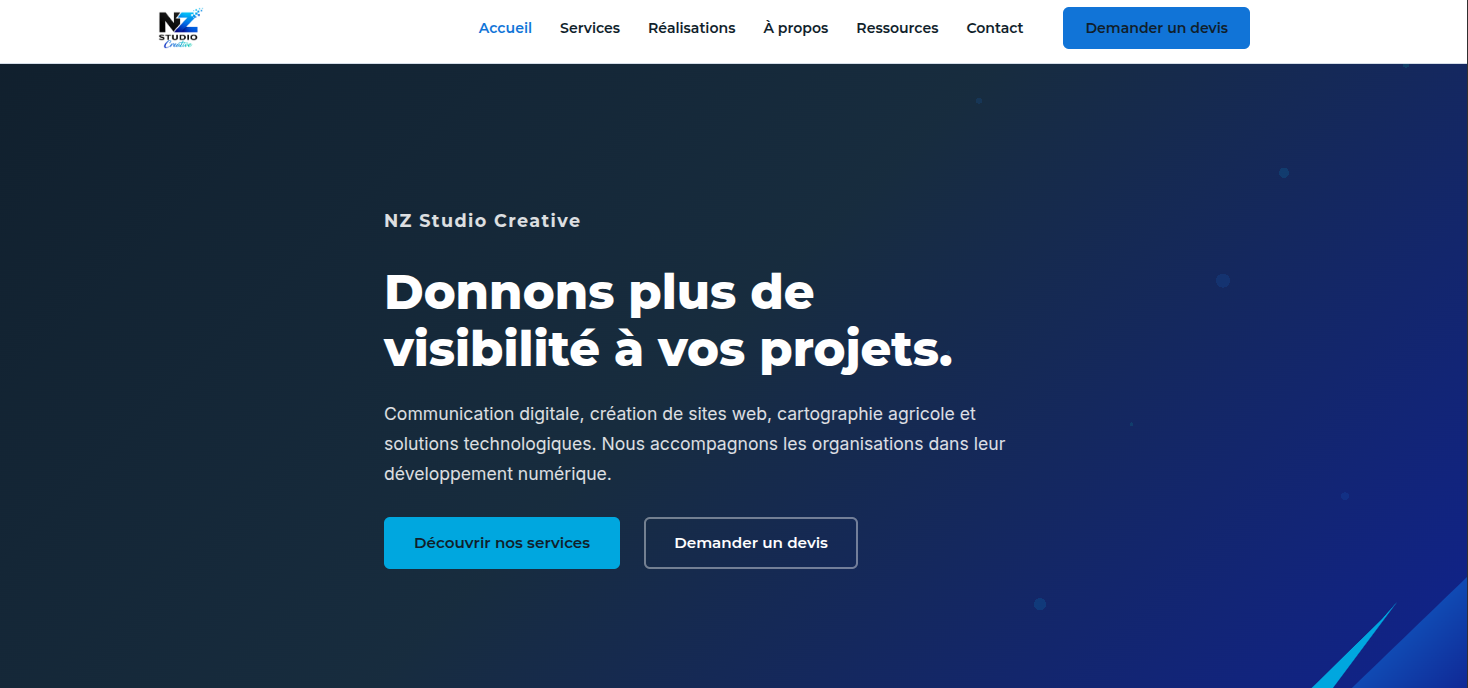
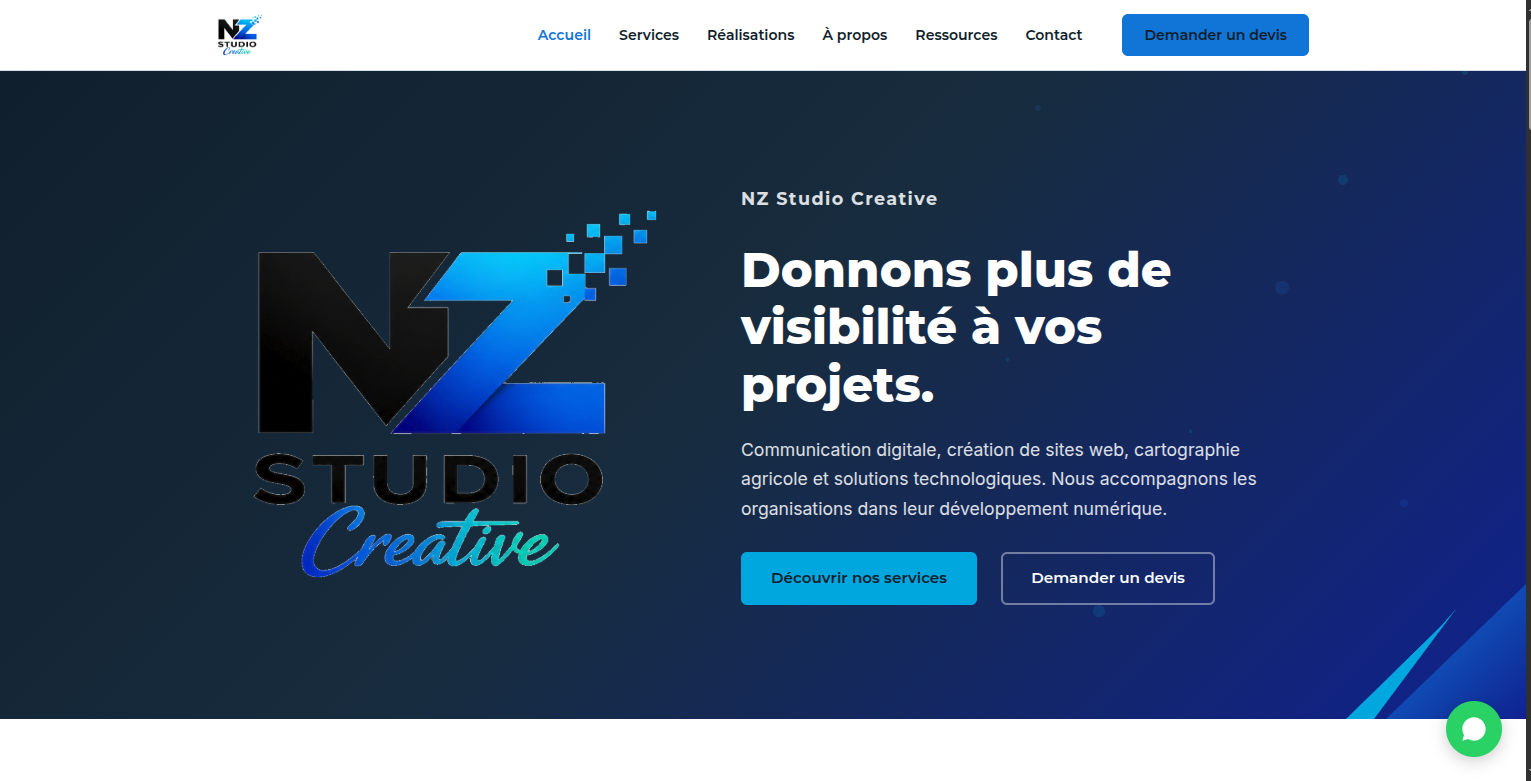
feat:Implementation du systeme d'envoie d'email

diff --git a/index.html b/index.html
@@ -32,7 +32,16 @@
 <section class="hero">
   <div class="hero__bg"></div>
   <div class="hero__pixels"></div>
-  <div class="container">
+  <div class="container hero__inner">
+
+    <!-- logo -->
+     
+    <div class="hero__logo fad-up">
+      <img src="img/logo-transparent.png" alt="NZ Studio Creative">
+    </div>
+
+    <!-- text et boutons du hero section -->
+     
     <div class="hero__content">
       <p class="section-label fad-up">NZ Studio Creative</p>
       <h1 class="fad-up">Donnons plus de visibilité à vos projets.</h1>
@@ -42,6 +51,7 @@
         <a href="./pages/devis.html" class="btn btn--outline fad-up" style="border-color:rgba(255,255,255,.4);color:#fff">Demander un devis</a>
       </div>
     </div>
+  
   </div>
   <svg class="hero__corner" viewBox="0 0 180 135" preserveAspectRatio="none"><defs><linearGradient id="hg" x1="0" y1="0" x2="1" y2="1"><stop offset="0" stop-color="#0875D8"/><stop offset="1" stop-color="#071C91"/></linearGradient></defs><polygon points="180,0 180,135 40,135" fill="url(#hg)"/><polygon points="95,42 110,25 28,135 0,135" fill="#00A8E0"/></svg>
 </section>
@@ -164,12 +174,13 @@
         <p style="color:rgba(255,255,255,.8);margin-bottom:20px">Décrivez votre besoin en quelques lignes. Nous vous répondons sous 24 heures avec une proposition adaptée, sans engagement.</p>
         <p style="color:rgba(255,255,255,.6);font-size:.9rem">Vous préférez en parler directement ?<br><a href="https://wa.me/237694633010" target="_blank" style="color:var(--cyan);font-weight:600">Échangeons sur WhatsApp</a></p>
       </div>
-      <form class="form reveal" action="#" method="POST">
+      <form class="form reveal" data-subject="Nouvelle demande de devis (accueil) — NZ STUDIO CREATIVE">
         <div class="form__row">
           <div class="form__group"><label for="nom">Nom et prénom</label><input type="text" id="nom" name="nom" placeholder="Votre nom" required></div>
           <div class="form__group"><label for="tel">Téléphone</label><input type="tel" id="tel" name="tel" placeholder="+237 ..." required></div>
         </div>
         <div class="form__group"><label for="org">Coopérative / organisation</label><input type="text" id="org" name="org" placeholder="Nom de votre organisation"></div>
+        <div class="form__group"><label for="email">E-mail</label><input type="email" id="email" name="email" placeholder="vous@exemple.com"></div>
         <div class="form__group"><label for="service">Service souhaité</label>
           <select id="service" name="service" required>
             <option value="">Choisir un service</option>
@@ -196,8 +207,8 @@
         <p>Agence de solutions digitales et technologiques. Nous accompagnons les organisations dans leur transformation numérique et leur visibilité.</p>
         <div class="footer__social">
           <a href="https://www.facebook.com/profile.php?id=61596868254224" aria-label="Facebook"><svg viewBox="0 0 24 24"><path d="M18 2h-3a5 5 0 00-5 5v3H7v4h3v8h4v-8h3l1-4h-4V7a1 1 0 011-1h3z"/></svg></a>
-          <a href="#" aria-label="LinkedIn"><svg viewBox="0 0 24 24"><path d="M16 8a6 6 0 016 6v7h-4v-7a2 2 0 00-4 0v7h-4v-7a6 6 0 016-6zM2 9h4v12H2zM4 2a2 2 0 110 4 2 2 0 010-4z"/></svg></a>
-          <a href="#" aria-label="Instagram"><svg viewBox="0 0 24 24"><rect x="2" y="2" width="20" height="20" rx="5"/><circle cx="12" cy="12" r="4.5"/><circle cx="17.5" cy="6.5" r="1.5"/></svg></a>
+          <a href="https://www.linkedin.com/company/nzstudiocreative/" aria-label="LinkedIn"><svg viewBox="0 0 24 24"><path d="M16 8a6 6 0 016 6v7h-4v-7a2 2 0 00-4 0v7h-4v-7a6 6 0 016-6zM2 9h4v12H2zM4 2a2 2 0 110 4 2 2 0 010-4z"/></svg></a>
+          <a href="https://www.instagram.com/nzstudio237/" aria-label="Instagram"><svg viewBox="0 0 24 24"><rect x="2" y="2" width="20" height="20" rx="5"/><circle cx="12" cy="12" r="4.5"/><circle cx="17.5" cy="6.5" r="1.5"/></svg></a>
         </div>
       </div>
       <div class="footer__col">
@@ -213,7 +224,7 @@
       </div>
       <div class="footer__col">
         <h4>Contact</h4>
-        <p>Téléphone : +237 672 20 38 14<br>WhatsApp :  +237 672 20 38 14 <br>Yaoundé, Cameroun</p>
+        <p>Téléphone : +237 672 20 38 14<br>WhatsApp : <a href="https://wa.me/237672203814"> +237 672 20 38 14 </a> <br>Yaoundé, Cameroun</p>
         <p style="margin-top:12px"><a href="./pages/devis.html" class="btn btn--cyan btn--small">Demander un devis</a></p>
       </div>
     </div>
@@ -259,5 +270,6 @@
   document.querySelectorAll(" .fad-right").forEach((el)=>observer.observe(el));
 </script>
 
+<script src="./emailService/form.js"></script>
 </body>
 </html>

diff --git a/pages/devis.html b/pages/devis.html
@@ -39,8 +39,7 @@
 <section class="section">
   <div class="container">
     <div class="grid-2" style="align-items:start">
-      <form class="form reveal" action="#" method="POST" style="max-width:100%">
-        <div class="form__row">
+      <form class="form reveal" id="devis-form" data-subject="Nouvelle demande de devis — NZ STUDIO CREATIVE" style="max-width:100%">        <div class="form__row">
           <div class="form__group"><label for="d-nom">Nom et prénom *</label><input type="text" id="d-nom" name="nom" required></div>
           <div class="form__group"><label for="d-tel">Téléphone *</label><input type="tel" id="d-tel" name="tel" placeholder="+237 ..." required></div>
         </div>
@@ -65,8 +64,8 @@
         <h3>Vous préférez en parler directement ?</h3>
         <p style="color:var(--gray);margin-top:8px">Appelez-nous ou écrivez-nous sur WhatsApp. Chaque accompagnement commence par un échange.</p>
         <div style="margin-top:20px">
-          <a href="https://wa.me/237694633010" target="_blank" class="btn btn--cyan" style="width:100%;margin-bottom:12px">Échanger sur WhatsApp</a>
-          <a href="tel:+237694633010" class="btn btn--outline" style="width:100%">Appeler le +237 694 633 010</a>
+          <a href="https://wa.me/237672203814" target="_blank" class="btn btn--cyan" style="width:100%;margin-bottom:12px">Échanger sur WhatsApp</a>
+          <a href="tel:+237672203814" class="btn btn--outline" style="width:100%">Appeler le +237 672 20 38 14</a>
         </div>
         <div style="margin-top:28px;padding-top:20px;border-top:1px solid var(--line) reveal">
           <h3>Ce que nous proposons</h3>
@@ -91,8 +90,8 @@
         <p>Agence de solutions digitales et technologiques. Nous accompagnons les organisations dans leur transformation numérique et leur visibilité.</p>
         <div class="footer__social">
           <a href="https://www.facebook.com/profile.php?id=61596868254224" aria-label="Facebook"><svg viewBox="0 0 24 24"><path d="M18 2h-3a5 5 0 00-5 5v3H7v4h3v8h4v-8h3l1-4h-4V7a1 1 0 011-1h3z"/></svg></a>
-          <a href="#" aria-label="LinkedIn"><svg viewBox="0 0 24 24"><path d="M16 8a6 6 0 016 6v7h-4v-7a2 2 0 00-4 0v7h-4v-7a6 6 0 016-6zM2 9h4v12H2zM4 2a2 2 0 110 4 2 2 0 010-4z"/></svg></a>
-          <a href="#" aria-label="Instagram"><svg viewBox="0 0 24 24"><rect x="2" y="2" width="20" height="20" rx="5"/><circle cx="12" cy="12" r="4.5"/><circle cx="17.5" cy="6.5" r="1.5"/></svg></a>
+          <a href="https://www.linkedin.com/company/nzstudiocreative/" aria-label="LinkedIn"><svg viewBox="0 0 24 24"><path d="M16 8a6 6 0 016 6v7h-4v-7a2 2 0 00-4 0v7h-4v-7a6 6 0 016-6zM2 9h4v12H2zM4 2a2 2 0 110 4 2 2 0 010-4z"/></svg></a>
+          <a href="https://www.instagram.com/nzstudio237/" aria-label="Instagram"><svg viewBox="0 0 24 24"><rect x="2" y="2" width="20" height="20" rx="5"/><circle cx="12" cy="12" r="4.5"/><circle cx="17.5" cy="6.5" r="1.5"/></svg></a>
         </div>
       </div>
       <div class="footer__col reveal">
@@ -109,7 +108,7 @@
       <div class="footer__col reveal">
         <h4>Contact</h4>
         <p>Téléphone :+237 672 20 38 14<br>WhatsApp : +237 672 20 38 14<br>Yaoundé, Cameroun</p>
-        <p style="margin-top:12px"><a href="devis.html" class="btn btn--cyan btn--small">Demander un devis</a></p>
+        <p style="margin-top:12px"><a href="tel:+237672203814" class="btn btn--cyan btn--small">Demander un devis</a></p>
       </div>
     </div>
     <div class="footer__bottom">
@@ -152,7 +151,8 @@
   document.querySelectorAll(".reveal").forEach((el)=> observer.observe(el));
   document.querySelectorAll(" .fad-left").forEach((el)=>observer.observe(el));
   document.querySelectorAll(" .fad-right").forEach((el)=>observer.observe(el));
-</script>
 
+</script>
+<script src="../emailService/form.js"></script>
 </body>
 </html>

diff --git a/emailService/form.js b/emailService/form.js
@@ -1,0 +1,75 @@
+// envoie de formulaire par email via web3form
+
+const WEB3FORMS_ACCESS_KEY="022090b5-dca8-4e35-8c38-785252636d08"
+const WEB3FORMS_URL='https://api.web3forms.com/submit'
+
+document.querySelectorAll('form[data-subject]').forEach((form)=>{
+    const btn=form.querySelector('button[type="submit"]');
+    const btnLabel=btn.textContent;
+
+    // message de statut sous le bouton
+
+    const status=document.createElement('p');
+    status.className='form__status';
+    status.setAttribute('role','status');
+    btn.insertAdjacentElement('afterend',status);
+
+    // piege Anti-spam
+
+    const trap=document.createElement('input');
+    trap.type='checkbox';
+    trap.name='botcheck';
+    trap.tabIndex=-1;
+    trap.setAttribute('aria-hidden','true');
+    trap.style.display='none';
+    form.appendChild(trap)
+
+    form.addEventListener('submit',async (e)=>{
+        e.preventDefault();
+        status.className='form__status';
+        status.textContent='';
+
+        const data=new FormData(form);
+        data.append('access_key',WEB3FORMS_ACCESS_KEY);
+        data.append('subject',form.dataset.subject);
+        data.append('from_name','site NZ STUDIO CREATIVE');
+
+        // remplace le name de la balise selcte par sa valeur meme (carto par  cartographie et tecabilite)
+
+        const select=form.querySelector('select[name="service"]');
+         if(select && select.value){
+            data.set('service',select.options[select.selectedIndex].text);
+         }
+
+         btn.disabled=true;
+         btn.textContent='Envoie en cours...';
+
+         try {
+            const res= await fetch(WEB3FORMS_URL,{
+                method:'POST',
+                headers: {Accept:'application/json'},
+                body:data,
+            });
+
+            const json = await res.json();
+            if(res.ok && json.success) {
+                form.reset();
+                status.classList.add('form__status--ok');
+                status.textContent = 'Merci ! Votre message a bien été envoyé'
+            }else{
+                throw new Error(json.message || 'Erreur');
+
+            }
+            
+         } catch (err) {
+            
+            status.classList.add('form__status--err');
+            status.textContent="L'envoi a échoué. Réessayez ou écrivez-nous sur WhatsApp."
+         }finally{
+            btn.disabled=false;
+            btn.textContent='btnLabel';
+         }
+
+    })
+
+})

diff --git a/pages/contact.html b/pages/contact.html
@@ -63,8 +63,7 @@
 
       <div>
         <h2>Envoyez-nous un message</h2>
-        <form class="form" action="#" method="POST" style="max-width:100%">
-          <div class="form__row">
+         <form class="form" data-subject="Nouveau message (page contact) — NZ STUDIO CREATIVE" style="max-width:100%">          <div class="form__row">
             <div class="form__group"><label for="c-nom">Nom et prénom</label><input type="text" id="c-nom" name="nom" required></div>
             <div class="form__group"><label for="c-tel">Téléphone</label><input type="tel" id="c-tel" name="tel"></div>
           </div>
@@ -86,8 +85,8 @@
         <p>Agence de solutions digitales et technologiques. Nous accompagnons les organisations dans leur transformation numérique et leur visibilité.</p>
         <div class="footer__social">
           <a href="https://www.facebook.com/profile.php?id=61596868254224" aria-label="Facebook"><svg viewBox="0 0 24 24"><path d="M18 2h-3a5 5 0 00-5 5v3H7v4h3v8h4v-8h3l1-4h-4V7a1 1 0 011-1h3z"/></svg></a>
-          <a href="#" aria-label="LinkedIn"><svg viewBox="0 0 24 24"><path d="M16 8a6 6 0 016 6v7h-4v-7a2 2 0 00-4 0v7h-4v-7a6 6 0 016-6zM2 9h4v12H2zM4 2a2 2 0 110 4 2 2 0 010-4z"/></svg></a>
-          <a href="#" aria-label="Instagram"><svg viewBox="0 0 24 24"><rect x="2" y="2" width="20" height="20" rx="5"/><circle cx="12" cy="12" r="4.5"/><circle cx="17.5" cy="6.5" r="1.5"/></svg></a>
+          <a href="https://www.linkedin.com/company/nzstudiocreative/" aria-label="LinkedIn"><svg viewBox="0 0 24 24"><path d="M16 8a6 6 0 016 6v7h-4v-7a2 2 0 00-4 0v7h-4v-7a6 6 0 016-6zM2 9h4v12H2zM4 2a2 2 0 110 4 2 2 0 010-4z"/></svg></a>
+          <a href="https://www.instagram.com/nzstudio237/" aria-label="Instagram"><svg viewBox="0 0 24 24"><rect x="2" y="2" width="20" height="20" rx="5"/><circle cx="12" cy="12" r="4.5"/><circle cx="17.5" cy="6.5" r="1.5"/></svg></a>
         </div>
       </div>
       <div class="footer__col reveal">
@@ -149,6 +148,6 @@
   document.querySelectorAll(" .fad-right").forEach((el)=>observer.observe(el));
   });
 </script>
-
+<script src="../emailService/form.js"></script>
 </body>
 </html>

diff --git a/pages/components.html b/pages/components.html
@@ -25,9 +25,9 @@
         <img src="img/logo.png" alt="NZ Studio Creative" style="height:44px;margin-bottom:16px;filter:brightness(0) invert(1)">
         <p>Agence de solutions digitales et technologiques. Nous accompagnons les organisations dans leur transformation numérique et leur visibilité.</p>
         <div class="footer__social">
-          <a href="#" aria-label="Facebook"><svg viewBox="0 0 24 24"><path d="M18 2h-3a5 5 0 00-5 5v3H7v4h3v8h4v-8h3l1-4h-4V7a1 1 0 011-1h3z"/></svg></a>
-          <a href="#" aria-label="LinkedIn"><svg viewBox="0 0 24 24"><path d="M16 8a6 6 0 016 6v7h-4v-7a2 2 0 00-4 0v7h-4v-7a6 6 0 016-6zM2 9h4v12H2zM4 2a2 2 0 110 4 2 2 0 010-4z"/></svg></a>
-          <a href="#" aria-label="Instagram"><svg viewBox="0 0 24 24"><rect x="2" y="2" width="20" height="20" rx="5"/><circle cx="12" cy="12" r="4.5"/><circle cx="17.5" cy="6.5" r="1.5"/></svg></a>
+          <a href="https://www.facebook.com/profile.php?id=61596868254224" aria-label="Facebook"><svg viewBox="0 0 24 24"><path d="M18 2h-3a5 5 0 00-5 5v3H7v4h3v8h4v-8h3l1-4h-4V7a1 1 0 011-1h3z"/></svg></a>
+          <a href="https://www.linkedin.com/company/nzstudiocreative/" aria-label="LinkedIn"><svg viewBox="0 0 24 24"><path d="M16 8a6 6 0 016 6v7h-4v-7a2 2 0 00-4 0v7h-4v-7a6 6 0 016-6zM2 9h4v12H2zM4 2a2 2 0 110 4 2 2 0 010-4z"/></svg></a>
+          <a href="https://www.instagram.com/nzstudio237/" aria-label="Instagram"><svg viewBox="0 0 24 24"><rect x="2" y="2" width="20" height="20" rx="5"/><circle cx="12" cy="12" r="4.5"/><circle cx="17.5" cy="6.5" r="1.5"/></svg></a>
         </div>
       </div>
       <div class="footer__col">

diff --git a/style.css b/style.css
@@ -175,6 +175,11 @@ p + p, p + ul, ul + p { margin-top: 12px; }
 .hero__buttons { display: flex; flex-wrap: wrap; gap: 12px; }
 .hero__corner { position: absolute; right: 0; bottom: 0; width: 180px; height: 135px; }
 
+/* logo sur la hero section */
+.hero__inner { display: flex; align-items: center; justify-content: space-between; gap: 48px; width: 100%; }
+.hero__logo { position: relative; z-index: 1; flex: 0 0 auto; padding: 28px; }
+.hero__logo img { display: block; width: clamp(260px, 32vw, 420px); height: auto; }
+
 /* --- Grid cards --- */
 .grid-2 { display: grid; grid-template-columns: repeat(2, 1fr); gap: var(--gap); }
 .grid-3 { display: grid; grid-template-columns: repeat(3, 1fr); gap: var(--gap); }
@@ -295,6 +300,7 @@ p + p, p + ul, ul + p { margin-top: 12px; }
   .navbar__toggle { display: block; }
   .navbar__cta { display: none; }
   .hero__content h1 { font-size: 1.8rem; }
+  .hero__logo { display: none; }
   .grid-2, .grid-3, .grid-4 { grid-template-columns: 1fr; }
   .footer__grid { grid-template-columns: 1fr; }
   .form__row { grid-template-columns: 1fr; }
@@ -302,3 +308,10 @@ p + p, p + ul, ul + p { margin-top: 12px; }
   .hero__buttons { flex-direction: column; }
   .section { padding: 48px 0; }
 }
+
+/* Statut d'envoi des formulaires */
+.form__status { margin-top: 12px; font-size: .9rem; font-weight: 600; text-align: center; }
+.form__status:empty { display: none; }
+.form__status--ok { color: var(--turq); }
+.form__status--err { color: #D64545; }
+.form button[disabled] { opacity: .7; cursor: not-allowed; }

diff --git a/pages/a-propos.html b/pages/a-propos.html
@@ -69,8 +69,8 @@
         <p>Agence de solutions digitales et technologiques. Nous accompagnons les organisations dans leur transformation numérique et leur visibilité.</p>
         <div class="footer__social">
           <a href="https://www.facebook.com/profile.php?id=61596868254224" aria-label="Facebook"><svg viewBox="0 0 24 24"><path d="M18 2h-3a5 5 0 00-5 5v3H7v4h3v8h4v-8h3l1-4h-4V7a1 1 0 011-1h3z"/></svg></a>
-          <a href="#" aria-label="LinkedIn"><svg viewBox="0 0 24 24"><path d="M16 8a6 6 0 016 6v7h-4v-7a2 2 0 00-4 0v7h-4v-7a6 6 0 016-6zM2 9h4v12H2zM4 2a2 2 0 110 4 2 2 0 010-4z"/></svg></a>
-          <a href="#" aria-label="Instagram"><svg viewBox="0 0 24 24"><rect x="2" y="2" width="20" height="20" rx="5"/><circle cx="12" cy="12" r="4.5"/><circle cx="17.5" cy="6.5" r="1.5"/></svg></a>
+          <a href="https://www.linkedin.com/company/nzstudiocreative/" aria-label="LinkedIn"><svg viewBox="0 0 24 24"><path d="M16 8a6 6 0 016 6v7h-4v-7a2 2 0 00-4 0v7h-4v-7a6 6 0 016-6zM2 9h4v12H2zM4 2a2 2 0 110 4 2 2 0 010-4z"/></svg></a>
+          <a href="https://www.instagram.com/nzstudio237/" aria-label="Instagram"><svg viewBox="0 0 24 24"><rect x="2" y="2" width="20" height="20" rx="5"/><circle cx="12" cy="12" r="4.5"/><circle cx="17.5" cy="6.5" r="1.5"/></svg></a>
         </div>
       </div>
       <div class="footer__col reveal">

diff --git a/pages/realisations.html b/pages/realisations.html
@@ -77,8 +77,8 @@
         <p>Agence de solutions digitales et technologiques. Nous accompagnons les organisations dans leur transformation numérique et leur visibilité.</p>
         <div class="footer__social">
           <a href="https://www.facebook.com/profile.php?id=61596868254224" aria-label="Facebook"><svg viewBox="0 0 24 24"><path d="M18 2h-3a5 5 0 00-5 5v3H7v4h3v8h4v-8h3l1-4h-4V7a1 1 0 011-1h3z"/></svg></a>
-          <a href="#" aria-label="LinkedIn"><svg viewBox="0 0 24 24"><path d="M16 8a6 6 0 016 6v7h-4v-7a2 2 0 00-4 0v7h-4v-7a6 6 0 016-6zM2 9h4v12H2zM4 2a2 2 0 110 4 2 2 0 010-4z"/></svg></a>
-          <a href="#" aria-label="Instagram"><svg viewBox="0 0 24 24"><rect x="2" y="2" width="20" height="20" rx="5"/><circle cx="12" cy="12" r="4.5"/><circle cx="17.5" cy="6.5" r="1.5"/></svg></a>
+          <a href="https://www.linkedin.com/company/nzstudiocreative/" aria-label="LinkedIn"><svg viewBox="0 0 24 24"><path d="M16 8a6 6 0 016 6v7h-4v-7a2 2 0 00-4 0v7h-4v-7a6 6 0 016-6zM2 9h4v12H2zM4 2a2 2 0 110 4 2 2 0 010-4z"/></svg></a>
+          <a href="https://www.instagram.com/nzstudio237/" aria-label="Instagram"><svg viewBox="0 0 24 24"><rect x="2" y="2" width="20" height="20" rx="5"/><circle cx="12" cy="12" r="4.5"/><circle cx="17.5" cy="6.5" r="1.5"/></svg></a>
         </div>
       </div>
       <div class="footer__col reveal">

diff --git a/pages/ressources.html b/pages/ressources.html
@@ -77,8 +77,8 @@
         <p>Agence de solutions digitales et technologiques. Nous accompagnons les organisations dans leur transformation numérique et leur visibilité.</p>
         <div class="footer__social">
           <a href="https://www.facebook.com/profile.php?id=61596868254224" aria-label="Facebook"><svg viewBox="0 0 24 24"><path d="M18 2h-3a5 5 0 00-5 5v3H7v4h3v8h4v-8h3l1-4h-4V7a1 1 0 011-1h3z"/></svg></a>
-          <a href="#" aria-label="LinkedIn"><svg viewBox="0 0 24 24"><path d="M16 8a6 6 0 016 6v7h-4v-7a2 2 0 00-4 0v7h-4v-7a6 6 0 016-6zM2 9h4v12H2zM4 2a2 2 0 110 4 2 2 0 010-4z"/></svg></a>
-          <a href="#" aria-label="Instagram"><svg viewBox="0 0 24 24"><rect x="2" y="2" width="20" height="20" rx="5"/><circle cx="12" cy="12" r="4.5"/><circle cx="17.5" cy="6.5" r="1.5"/></svg></a>
+          <a href="https://www.linkedin.com/company/nzstudiocreative/" aria-label="LinkedIn"><svg viewBox="0 0 24 24"><path d="M16 8a6 6 0 016 6v7h-4v-7a2 2 0 00-4 0v7h-4v-7a6 6 0 016-6zM2 9h4v12H2zM4 2a2 2 0 110 4 2 2 0 010-4z"/></svg></a>
+          <a href="https://www.instagram.com/nzstudio237/" aria-label="Instagram"><svg viewBox="0 0 24 24"><rect x="2" y="2" width="20" height="20" rx="5"/><circle cx="12" cy="12" r="4.5"/><circle cx="17.5" cy="6.5" r="1.5"/></svg></a>
         </div>
       </div>
       <div class="footer__col reveal">

diff --git a/pages/services.html b/pages/services.html
@@ -143,11 +143,11 @@
             <a href="https://www.facebook.com/profile.php?id=61596868254224" class="reveal" aria-label="Facebook" class="reveal"><svg viewBox="0 0 24 24">
                 <path d="M18 2h-3a5 5 0 00-5 5v3H7v4h3v8h4v-8h3l1-4h-4V7a1 1 0 011-1h3z" />
               </svg></a>
-            <a href="#" class="reveal" aria-label="LinkedIn" class="reveal"><svg viewBox="0 0 24 24">
+            <a href="https://www.linkedin.com/company/nzstudiocreative/" class="reveal" aria-label="LinkedIn" class="reveal"><svg viewBox="0 0 24 24">
                 <path
                   d="M16 8a6 6 0 016 6v7h-4v-7a2 2 0 00-4 0v7h-4v-7a6 6 0 016-6zM2 9h4v12H2zM4 2a2 2 0 110 4 2 2 0 010-4z" />
               </svg></a>
-            <a href="#" class="reveal" aria-label="Instagram" class="reveal"><svg viewBox="0 0 24 24">
+            <a href="https://www.instagram.com/nzstudio237/" class="reveal" aria-label="Instagram" class="reveal"><svg viewBox="0 0 24 24">
                 <rect x="2" y="2" width="20" height="20" rx="5" />
                 <circle cx="12" cy="12" r="4.5" />
                 <circle cx="17.5" cy="6.5" r="1.5" />
